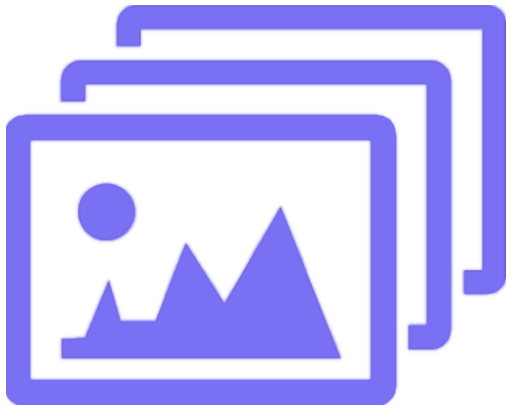
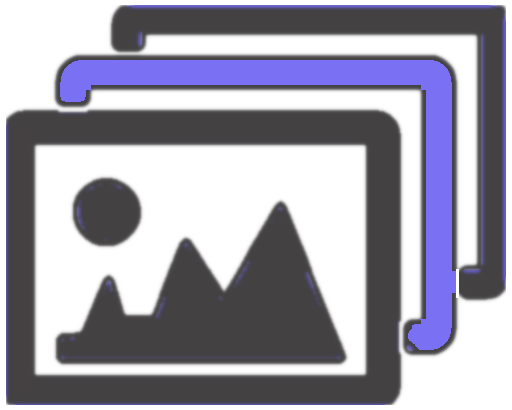
show expanded groups

diff --git a/MediaTagger/wwwroot/js/component/view-options.js b/MediaTagger/wwwroot/js/component/view-options.js
@@ -11,12 +11,16 @@ import {
   BuildClickHandler,
   BuildInputHandler,
   BuildWheelHandler,
+  BuildCheckboxHandler,
   EventEmitter,
   ObjectEventType,
 } from "../../drjs/browser/event.js";
+import { MediaTaggerApi } from "../modules/mt-api.js";
 
-export var ZoomChangeEvent = new ObjectEventType("zoomChange");
-export var ZoomEvent = new EventEmitter(ZoomChangeEvent, this);
+export var ZoomChangeEventType = new ObjectEventType("zoomChange");
+export var ZoomEvent = new EventEmitter(ZoomChangeEventType, this);
+export var ExpandGroupsEventType = new ObjectEventType("ExpandGroups");
+export var ExpandGroupsEvent = new EventEmitter(ExpandGroupsEventType, this);
 var MAX_ZOOM = 800;
 
 export class ViewOptionsComponent extends ComponentBase {
@@ -54,6 +58,11 @@ export class ViewOptionsComponent extends ComponentBase {
         .onChange(this, this.search)
         .debounce(500)
         .build(),
+      BuildCheckboxHandler()
+        .selector("[name='expand-groups']")
+        .onChange(this, this.expandGroupsChange)
+        .build(),
+
       BuildInputHandler()
         .selector("[name='sort']")
         .onChange(this, this.sort)
@@ -73,6 +82,11 @@ export class ViewOptionsComponent extends ComponentBase {
     this.dom.setAttribute(this.zoomSlider, "max", MAX_ZOOM);
   }
 
+  expandGroupsChange(checked) {
+    log.debug("expand groups", checked);
+    ExpandGroupsEvent.emit(checked);
+    Media.showSecondaryGroupFiles(checked);
+  }
   selectionChange(selected) {
     log.debug("selection change ", selected.getLength());
     dom.toggleClass("#content-view", "multi-select", selected.getLength() > 1);

diff --git a/MediaTagger/wwwroot/js/modules/layout.js b/MediaTagger/wwwroot/js/modules/layout.js
@@ -1,6 +1,6 @@
 import { LOG_LEVEL, Logger } from "../../drjs/logger.js";
 import dom from "../../drjs/browser/dom.js";
-import { ZoomChangeEvent } from "../component/view-options.js";
+import { ZoomEvent } from "../component/view-options.js";
 import {
   Listeners,
   EventListener,
@@ -60,7 +60,7 @@ export class Layout {
     });
     this.resizeObserver.observe(this.container);
     this.listeners = new Listeners(
-      new EventListener(ZoomChangeEvent, this, this.onZoomChange),
+      ZoomEvent.createListener(this, this.onZoomChange),
       BuildScrollHandler().listenTo(this.container).onScroll(this).build(),
       this.list.getUpdatedEvent().createListener(this, this.onListUpdated),
       Media.getSelectedItems()
@@ -131,7 +131,7 @@ export class Layout {
     /* base layout does nothing;*/
   }
 
-  onZoomChange(newValue) {
+  onZoomChange(sender, newValue) {
     this.zoomPercent = newValue / 100.0;
     this.scrollToItem(
       this.scrollItemIndex,

diff --git a/MediaTagger/wwwroot/css/panel/_media.scss b/MediaTagger/wwwroot/css/panel/_media.scss
@@ -85,7 +85,7 @@
                 background-color: red;
             }
 
-            &.group.primary::after {
+            &.group::after {
                 content: '';
                 position: absolute;
                 display: block;
@@ -97,6 +97,18 @@
                 z-index: 100;
                 background-size: cover;
             }
+                        &.group.primary::after {
+                            content: '';
+                            position: absolute;
+                            display: block;
+                            right: 0;
+                            bottom: 0;
+                            width: 32px;
+                            height: 32px;
+                            background-image: url(../image/group-primary.png?v=1);
+                            z-index: 100;
+                            background-size: cover;
+                        }
         }
 
         .media-item.selected {

diff --git a/MediaTagger/wwwroot/js/modules/media.js b/MediaTagger/wwwroot/js/modules/media.js
@@ -37,9 +37,10 @@ class Media {
     this.groups = new ObservableArray();
     this.properties = new ObservableArray();
     this.propertyValues = new ObservableArray();
+    this.showAllGroupFiles = false;
     this.groupFilterItems = new FilteredObservableView(
       this.files,
-      this.primaryFileFilter
+      this.primaryFileFilter.bind(this)
     );
     this.searchFilterItems = new FilteredObservableView(
       this.groupFilterItems,
@@ -62,8 +63,16 @@ class Media {
     );
   }
 
+  showSecondaryGroupFiles(visible) {
+    this.showAllGroupFiles = visible;
+    this.groupFilterItems.filter();
+  }
+  hideSecondaryGroupFiles() {
+    this.showAllGroupFiles = false;
+    this.groupFilterItems.filter();
+  }
   primaryFileFilter(item) {
-    return item.isPrimary();
+    return this.showAllGroupFiles || item.isPrimary();
   }
 
   async loadItems() {

diff --git a/MediaTagger/wwwroot/css/MediaTagger.css b/MediaTagger/wwwroot/css/MediaTagger.css
@@ -100,7 +100,7 @@ body {
   top: 48px;
   background-color: red;
 }
-#media-view .media-items .media-item.group.primary::after {
+#media-view .media-items .media-item.group::after {
   content: "";
   position: absolute;
   display: block;
@@ -109,6 +109,18 @@ body {
   width: 32px;
   height: 32px;
   background-image: url(../image/group.png?v=1);
+  z-index: 100;
+  background-size: cover;
+}
+#media-view .media-items .media-item.group.primary::after {
+  content: "";
+  position: absolute;
+  display: block;
+  right: 0;
+  bottom: 0;
+  width: 32px;
+  height: 32px;
+  background-image: url(../image/group-primary.png?v=1);
   z-index: 100;
   background-size: cover;
 }

diff --git a/MediaTagger/wwwroot/component/view-options.html b/MediaTagger/wwwroot/component/view-options.html
@@ -11,4 +11,5 @@
       <option>ID</option>
     </select>
     <input name="search" placeholder="search"/>
+    <label><input type='checkbox' name='expand-groups'>Expand Groups</label>
 </div>
